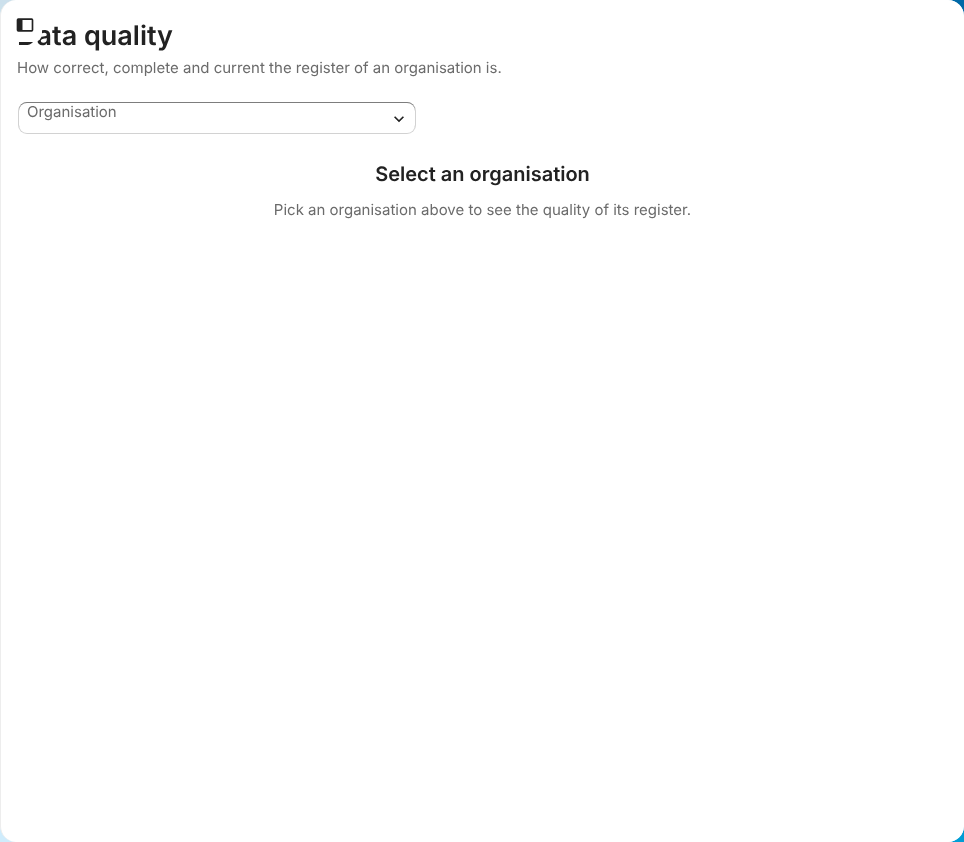
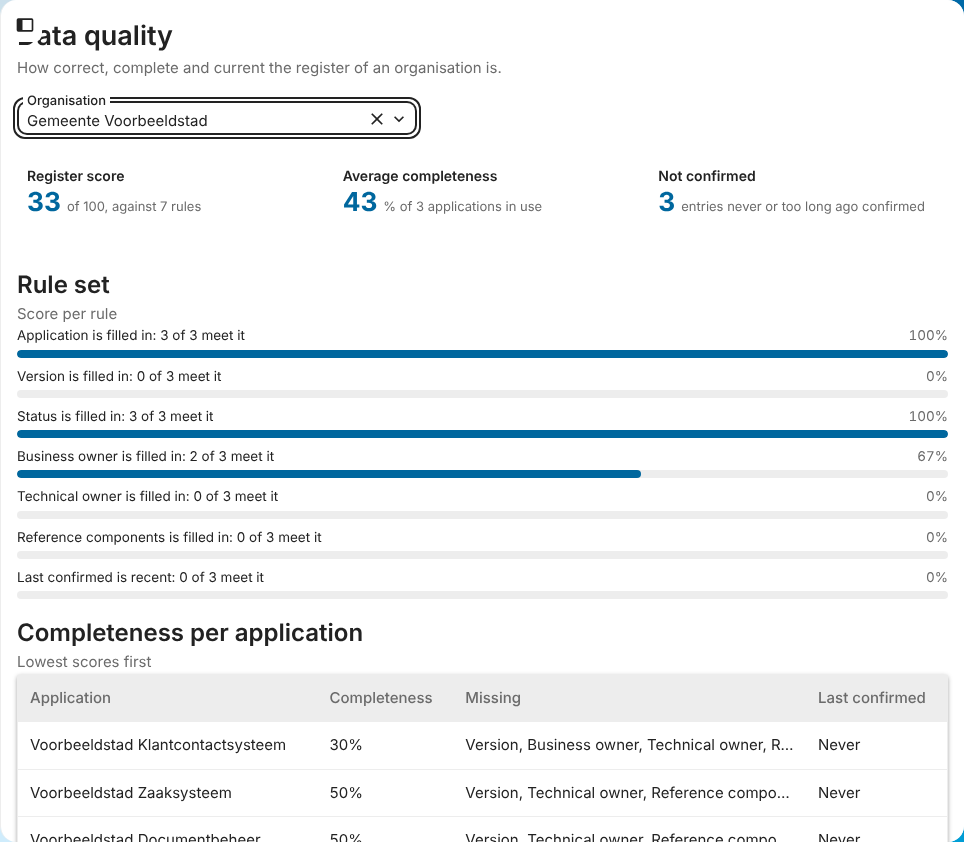
docs: all ten feature screenshots; suggestions shown as the usage's own organisation [skip ci]
Assisted-by: ClaudeCode:claude-opus-5-5

diff --git a/tests/e2e/docs/screenshots.spec.ts b/tests/e2e/docs/screenshots.spec.ts
@@ -36,7 +36,8 @@ import * as path from 'path'
 
 const IMAGES = path.resolve(__dirname, '../../../docs/images')
 const APP = '/index.php/apps/stackiq'
-const OBJECTS = '/index.php/apps/openregister/api/objects'
+const OR_API = '/index.php/apps/openregister/api'
+const OBJECTS = `${OR_API}/objects`
 const SEED_PREFIX = 'Voorbeeldstad'
 const NC_ADMIN_USER = process.env.NC_ADMIN_USER ?? 'admin'
 const NC_ADMIN_PASS = process.env.NC_ADMIN_PASS ?? 'admin'
@@ -76,6 +77,47 @@ async function ensure(request: APIRequestContext, register: string, schema: stri
 
 	const created = await request.post(`${OBJECTS}/${register}/${schema}`, { data })
 	expect(created.status(), `create ${schema} ${fields.map((f) => String(data[f])).join('/')}: ${await created.text()}`).toBeLessThan(300)
+	return (await created.json()) as Obj
+}
+
+/** An API context with basic auth and no session cookie, so writes need no CSRF requesttoken. */
+async function api(baseURL: string | undefined): Promise<APIRequestContext> {
+	return playwrightRequest.newContext({
+		baseURL,
+		storageState: { cookies: [], origins: [] },
+		httpCredentials: { username: NC_ADMIN_USER, password: NC_ADMIN_PASS, send: 'always' },
+		extraHTTPHeaders: { 'OCS-APIRequest': 'true', Accept: 'application/json' },
+	})
+}
+
+/**
+ * The uuid of the OpenRegister organisation with this name, created when missing.
+ *
+ * Suggested connections are shown to the usage's own organisation only: the
+ * caller's active OpenRegister organisation must be the usage's consumer, so
+ * the catalogue organisation shares this uuid.
+ */
+async function orOrganisation(request: APIRequestContext, name: string): Promise<string> {
+	const list = await request.get(`${OR_API}/organisations`)
+	expect(list.ok()).toBeTruthy()
+	const found = (((await list.json()).results ?? []) as Array<{ uuid: string, name: string }>).find((o) => o.name === name)
+	if (found) {
+		return found.uuid
+	}
+	const created = await request.post(`${OR_API}/organisations`, { data: { name, description: 'Example organisation for the documentation screenshots.' } })
+	expect(created.status(), await created.text()).toBeLessThan(300)
+	const body = await created.json()
+	return String((body.organisation ?? body).uuid)
+}
+
+/** An object with a given id, created with that id when missing. */
+async function ensureById(request: APIRequestContext, register: string, schema: string, data: Record<string, unknown> & { id: string }): Promise<Obj> {
+	const found = await request.get(`${OBJECTS}/${register}/${schema}/${data.id}`)
+	if (found.ok()) {
+		return (await found.json()) as Obj
+	}
+	const created = await request.post(`${OBJECTS}/${register}/${schema}`, { data })
+	expect(created.status(), `create ${schema} ${data.id}: ${await created.text()}`).toBeLessThan(300)
 	return (await created.json()) as Obj
 }
 
@@ -126,16 +168,11 @@ test.describe('documentation screenshots', () => {
 	test.use({ viewport: { width: 1280, height: 900 } })
 
 	test.beforeAll(async ({ baseURL }) => {
-		// Basic auth without the session cookie: no CSRF requesttoken needed for writes.
-		const request = await playwrightRequest.newContext({
-			baseURL,
-			storageState: { cookies: [], origins: [] },
-			httpCredentials: { username: NC_ADMIN_USER, password: NC_ADMIN_PASS, send: 'always' },
-			extraHTTPHeaders: { 'OCS-APIRequest': 'true', Accept: 'application/json' },
-		})
+		const request = await api(baseURL)
 		register = await registerId(request)
 
-		organisation = await ensure(request, register, 'organization', { name: `Gemeente ${SEED_PREFIX}`, type: 'Municipality' })
+		const orgName = `Gemeente ${SEED_PREFIX}`
+		organisation = await ensureById(request, register, 'organization', { id: await orOrganisation(request, orgName), name: orgName, type: 'Municipality' })
 		const supplier = await ensure(request, register, 'organization', { name: `${SEED_PREFIX} Software B.V.`, type: 'Supplier' })
 		const anna = await ensure(request, register, 'contactPerson', { contactsUid: 'anna', role: 'Information manager', organization: organisation.id }, ['contactsUid'])
 		const bas = await ensure(request, register, 'contactPerson', { contactsUid: 'bas', role: 'Application manager', organization: organisation.id }, ['contactsUid'])
@@ -245,24 +282,51 @@ test.describe('documentation screenshots', () => {
 	test('data quality report', async ({ page }) => {
 		await page.goto(`${APP}/datakwaliteit`)
 		await settle(page)
+		// The report is per organisation: pick the example one.
+		await page.getByRole('combobox').first().click()
+		await page.keyboard.type(`Gemeente ${SEED_PREFIX}`)
+		await expect(page.getByRole('option').first()).toBeVisible()
+		await page.keyboard.press('Enter')
+		await expect(page.getByText('Select an organisation')).toHaveCount(0)
+		await expect(page.locator('main .loading-icon, #app-content-vue .loading-icon')).toHaveCount(0, { timeout: 30_000 })
+		await expect(page.getByText('Business owner').first()).toBeVisible()
 		await shoot(page.locator('#app-content, main').first(), 'data-quality-report.png')
 	})
 
 	test('confirmation round', async ({ page }) => {
 		await page.goto(`${APP}/confirmation-rounds`)
 		await settle(page)
-		await page.getByText(`${SEED_PREFIX} Q4`).first().click()
+		await page.getByRole('link', { name: `${SEED_PREFIX} Q4`, exact: true }).first().click()
 		await page.waitForURL(/confirmation-rounds\/.+/)
 		await settle(page)
 		await shoot(page.locator('#app-content, main').first(), 'confirmation-round.png')
 	})
 
 	test('connection suggestions', async ({ page }) => {
-		await page.goto(`${APP}/gebruik/${usage.id}`)
-		await settle(page)
-		const card = await reveal(bodyWidget(page, 'Suggested connections'))
-		await expect(card).toBeVisible()
-		await shoot(card, 'connection-suggestions.png')
+		// Only the usage's own organisation sees its suggestions. OpenRegister keeps
+		// the active organisation per session, so switch it in the browser's own.
+		const setActive = (uuid: string) => page.evaluate(async (url) => {
+			const response = await fetch(url, {
+				method: 'POST',
+				headers: { requesttoken: (window as unknown as { OC: { requestToken: string } }).OC.requestToken, 'OCS-APIRequest': 'true' },
+			})
+			return response.ok
+		}, `${OR_API}/organisations/${uuid}/set-active`)
+
+		await page.goto(`${APP}/`)
+		const active = await page.evaluate(async (url) => (await (await fetch(url)).json()).activeOrganisation?.uuid ?? null, `${OR_API}/organisations/active`)
+		expect(await setActive(organisation.id)).toBeTruthy()
+		try {
+			await page.goto(`${APP}/gebruik/${usage.id}`)
+			await settle(page)
+			const card = await reveal(bodyWidget(page, 'Suggested connections'))
+			await expect(card.getByText('Klantcontact naar Zaaksysteem').first()).toBeVisible()
+			await shoot(card, 'connection-suggestions.png')
+		} finally {
+			if (active) {
+				await setActive(active)
+			}
+		}
 	})
 
 	test('API documentation', async ({ page }) => {
